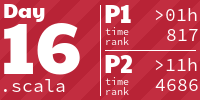
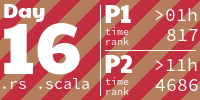
Add solution for 2022 day 16 part 2 with parallel iterator

diff --git a/src/y2022/day16.rs b/src/y2022/day16.rs
@@ -14,6 +14,7 @@ use nom::{
     IResult,
 };
 use pathfinding::prelude::bfs;
+use rayon::iter::{IntoParallelRefIterator, ParallelIterator};
 
 use crate::day::AoCDay;
 
@@ -116,8 +117,26 @@ impl AoCDay for Solution {
     }
 
     fn part2(&self) -> String {
-        //todo!();
-        "TODO".to_string()
+        let max_pressures_26 = self.max_pressure(26);
+        let valve_with_flow_keys = self
+            .valves_with_flow
+            .keys()
+            .cloned()
+            .collect::<BTreeSet<u16>>();
+        let pressures_with_elephant = max_pressures_26.par_iter().map(|(open, pressure)| {
+            let elephant_valves = valve_with_flow_keys.difference(open);
+            elephant_valves
+                .powerset()
+                .flat_map(|elephant| {
+                    let elephant_valves = BTreeSet::from_iter(elephant.into_iter().cloned());
+                    max_pressures_26
+                        .get(&elephant_valves)
+                        .map(|elephant_pressure| elephant_pressure + pressure)
+                })
+                .max()
+                .unwrap()
+        });
+        pressures_with_elephant.max().unwrap().to_string()
     }
 }
 
@@ -216,14 +235,12 @@ mod tests {
     }
 
     #[test]
-    #[ignore]
     fn test_part2_example() {
         let day = Solution::with_input(input!(example: 2022 16));
         assert_eq!(day.part2(), "1707");
     }
 
     #[test]
-    #[ignore]
     fn test_part2_input() {
         let day = Solution::with_input(input!(input: 2022 16));
         assert_eq!(day.part2(), "2528");

diff --git a/README.md b/README.md
@@ -50,7 +50,7 @@ Rust solutions for [Advent of Code](http://adventofcode.com/). My scala solution
 <a href="https://github.com/SuperTux88/adventofcode/blob/main/src/main/scala/adventofcode/y2022/Day15.scala">
   <img src="AoCTiles/2022/15.png" width="161px">
 </a>
-<a href="https://github.com/SuperTux88/adventofcode/blob/main/src/main/scala/adventofcode/y2022/Day16.scala">
+<a href="src/y2022/day16.rs">
   <img src="AoCTiles/2022/16.png" width="161px">
 </a>
 <a href="https://github.com/SuperTux88/adventofcode/blob/main/src/main/scala/adventofcode/y2022/Day17.scala">
